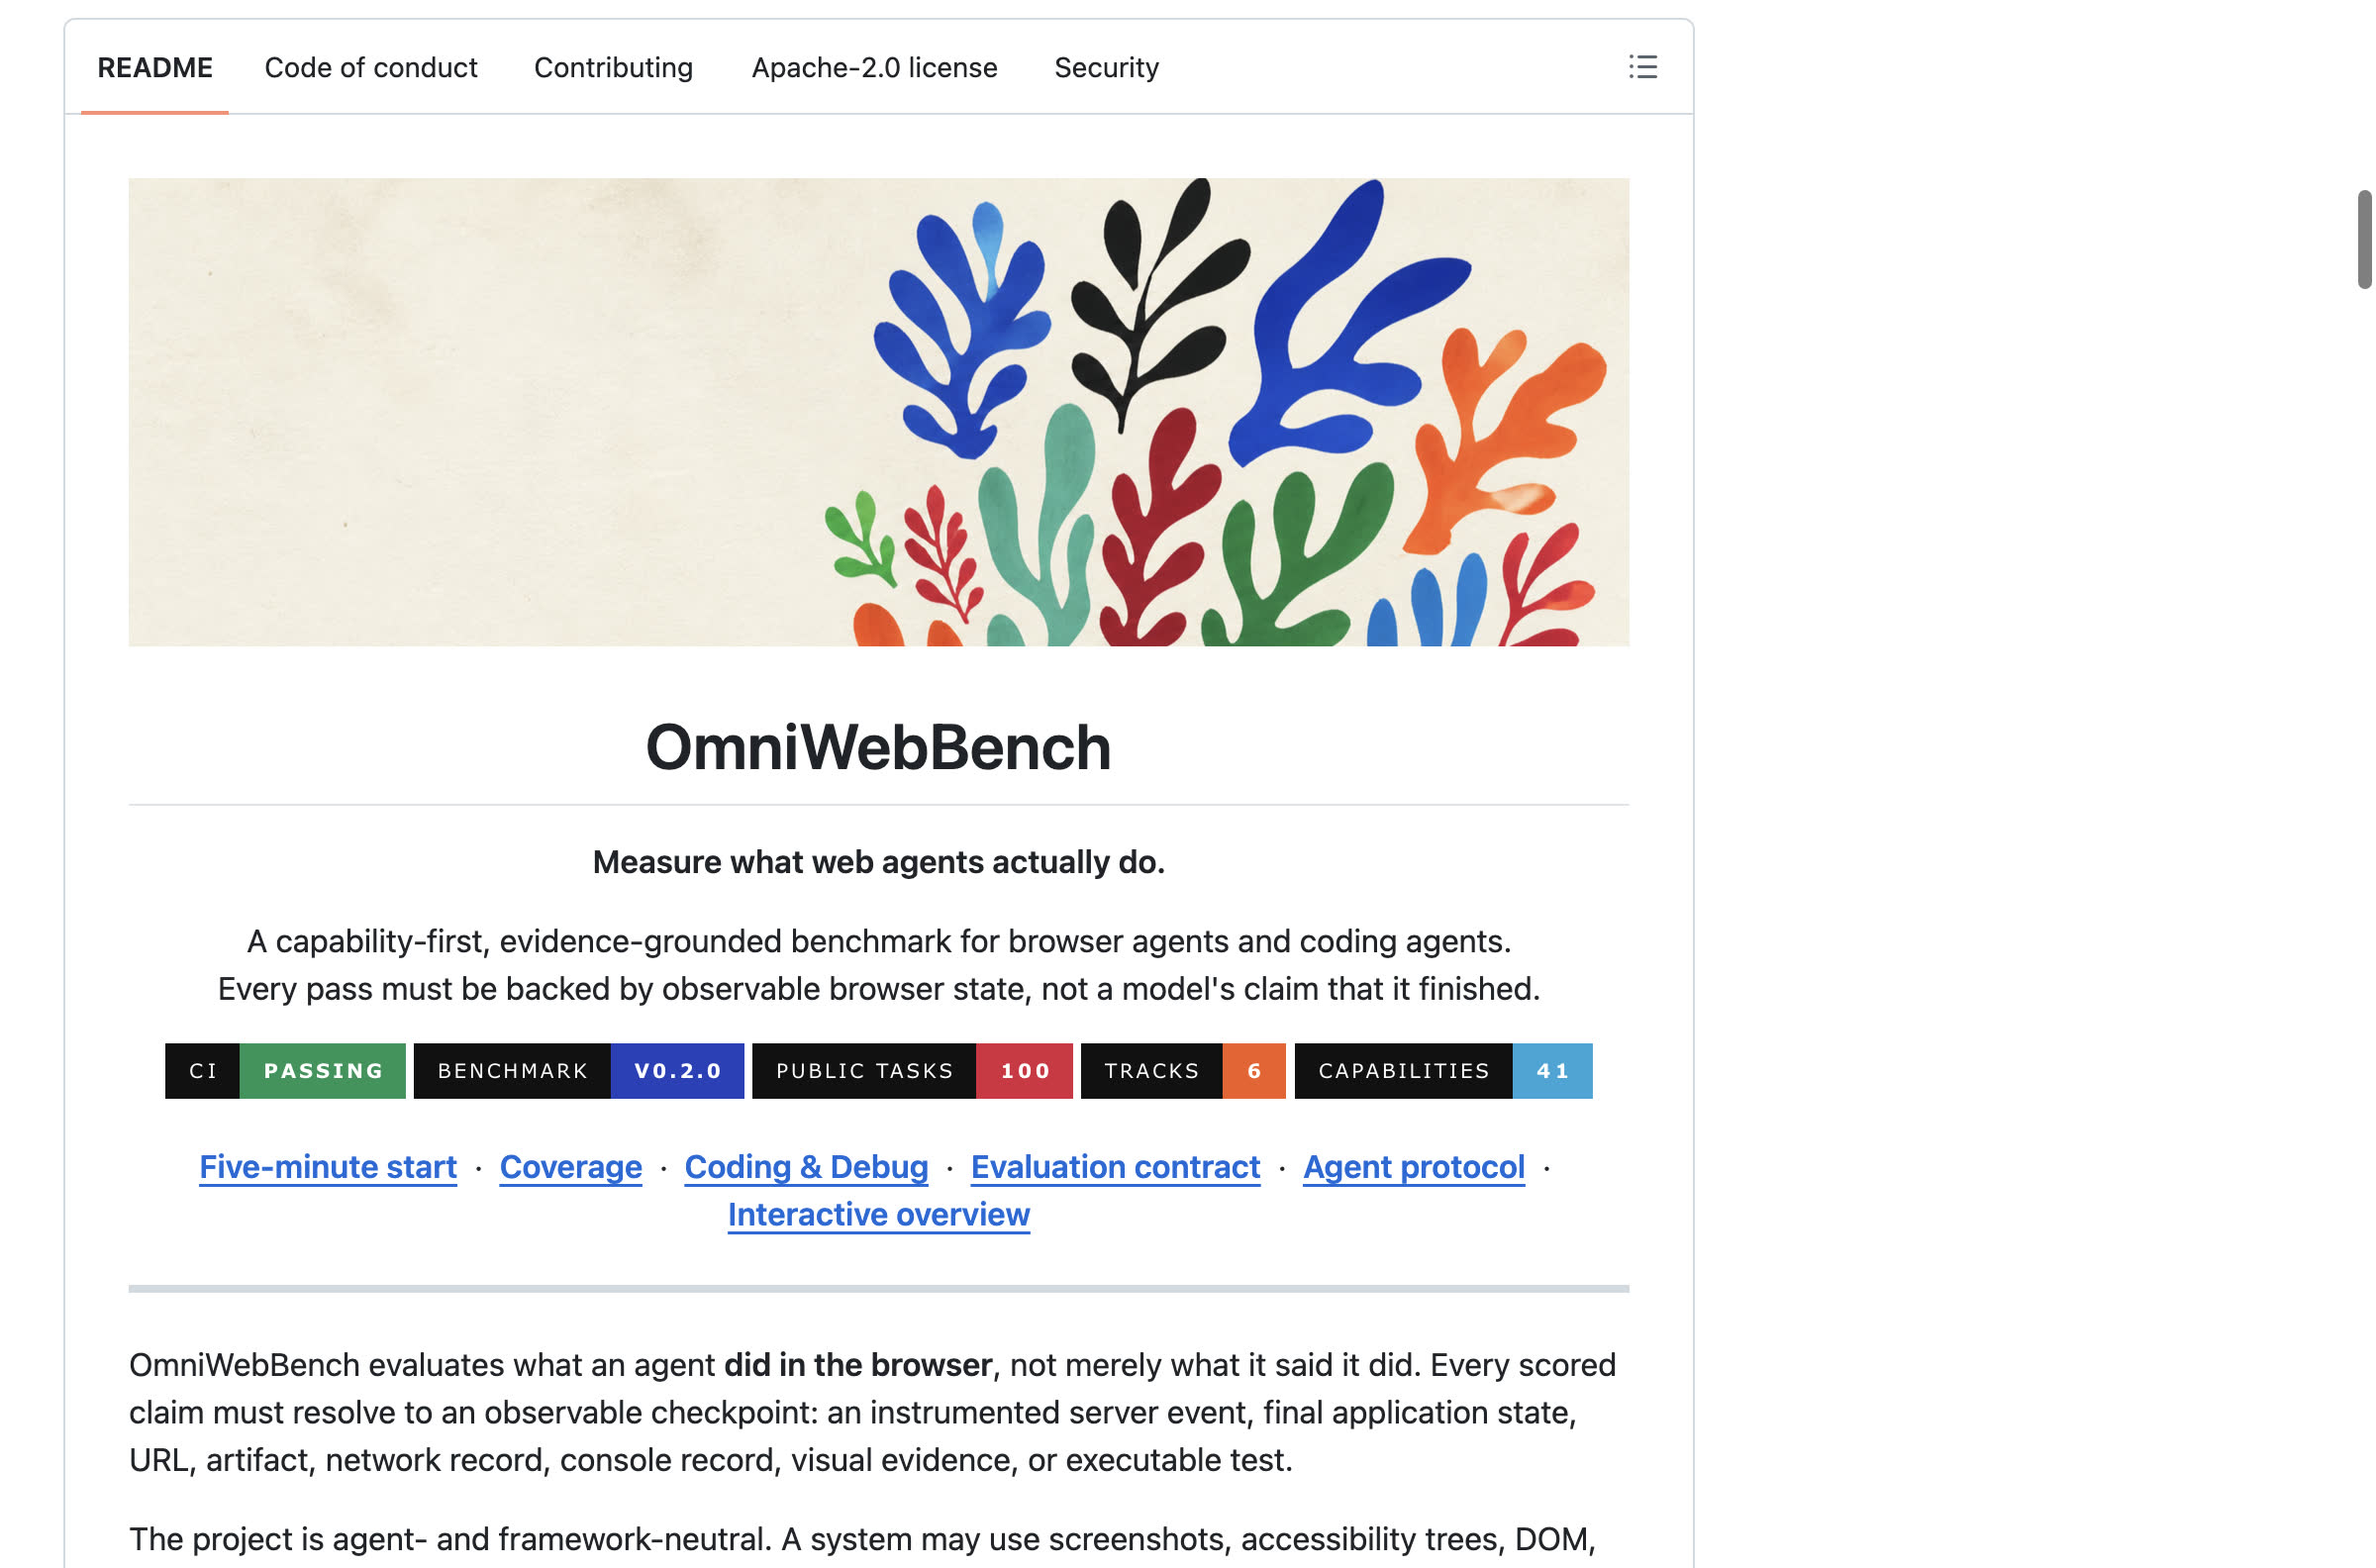
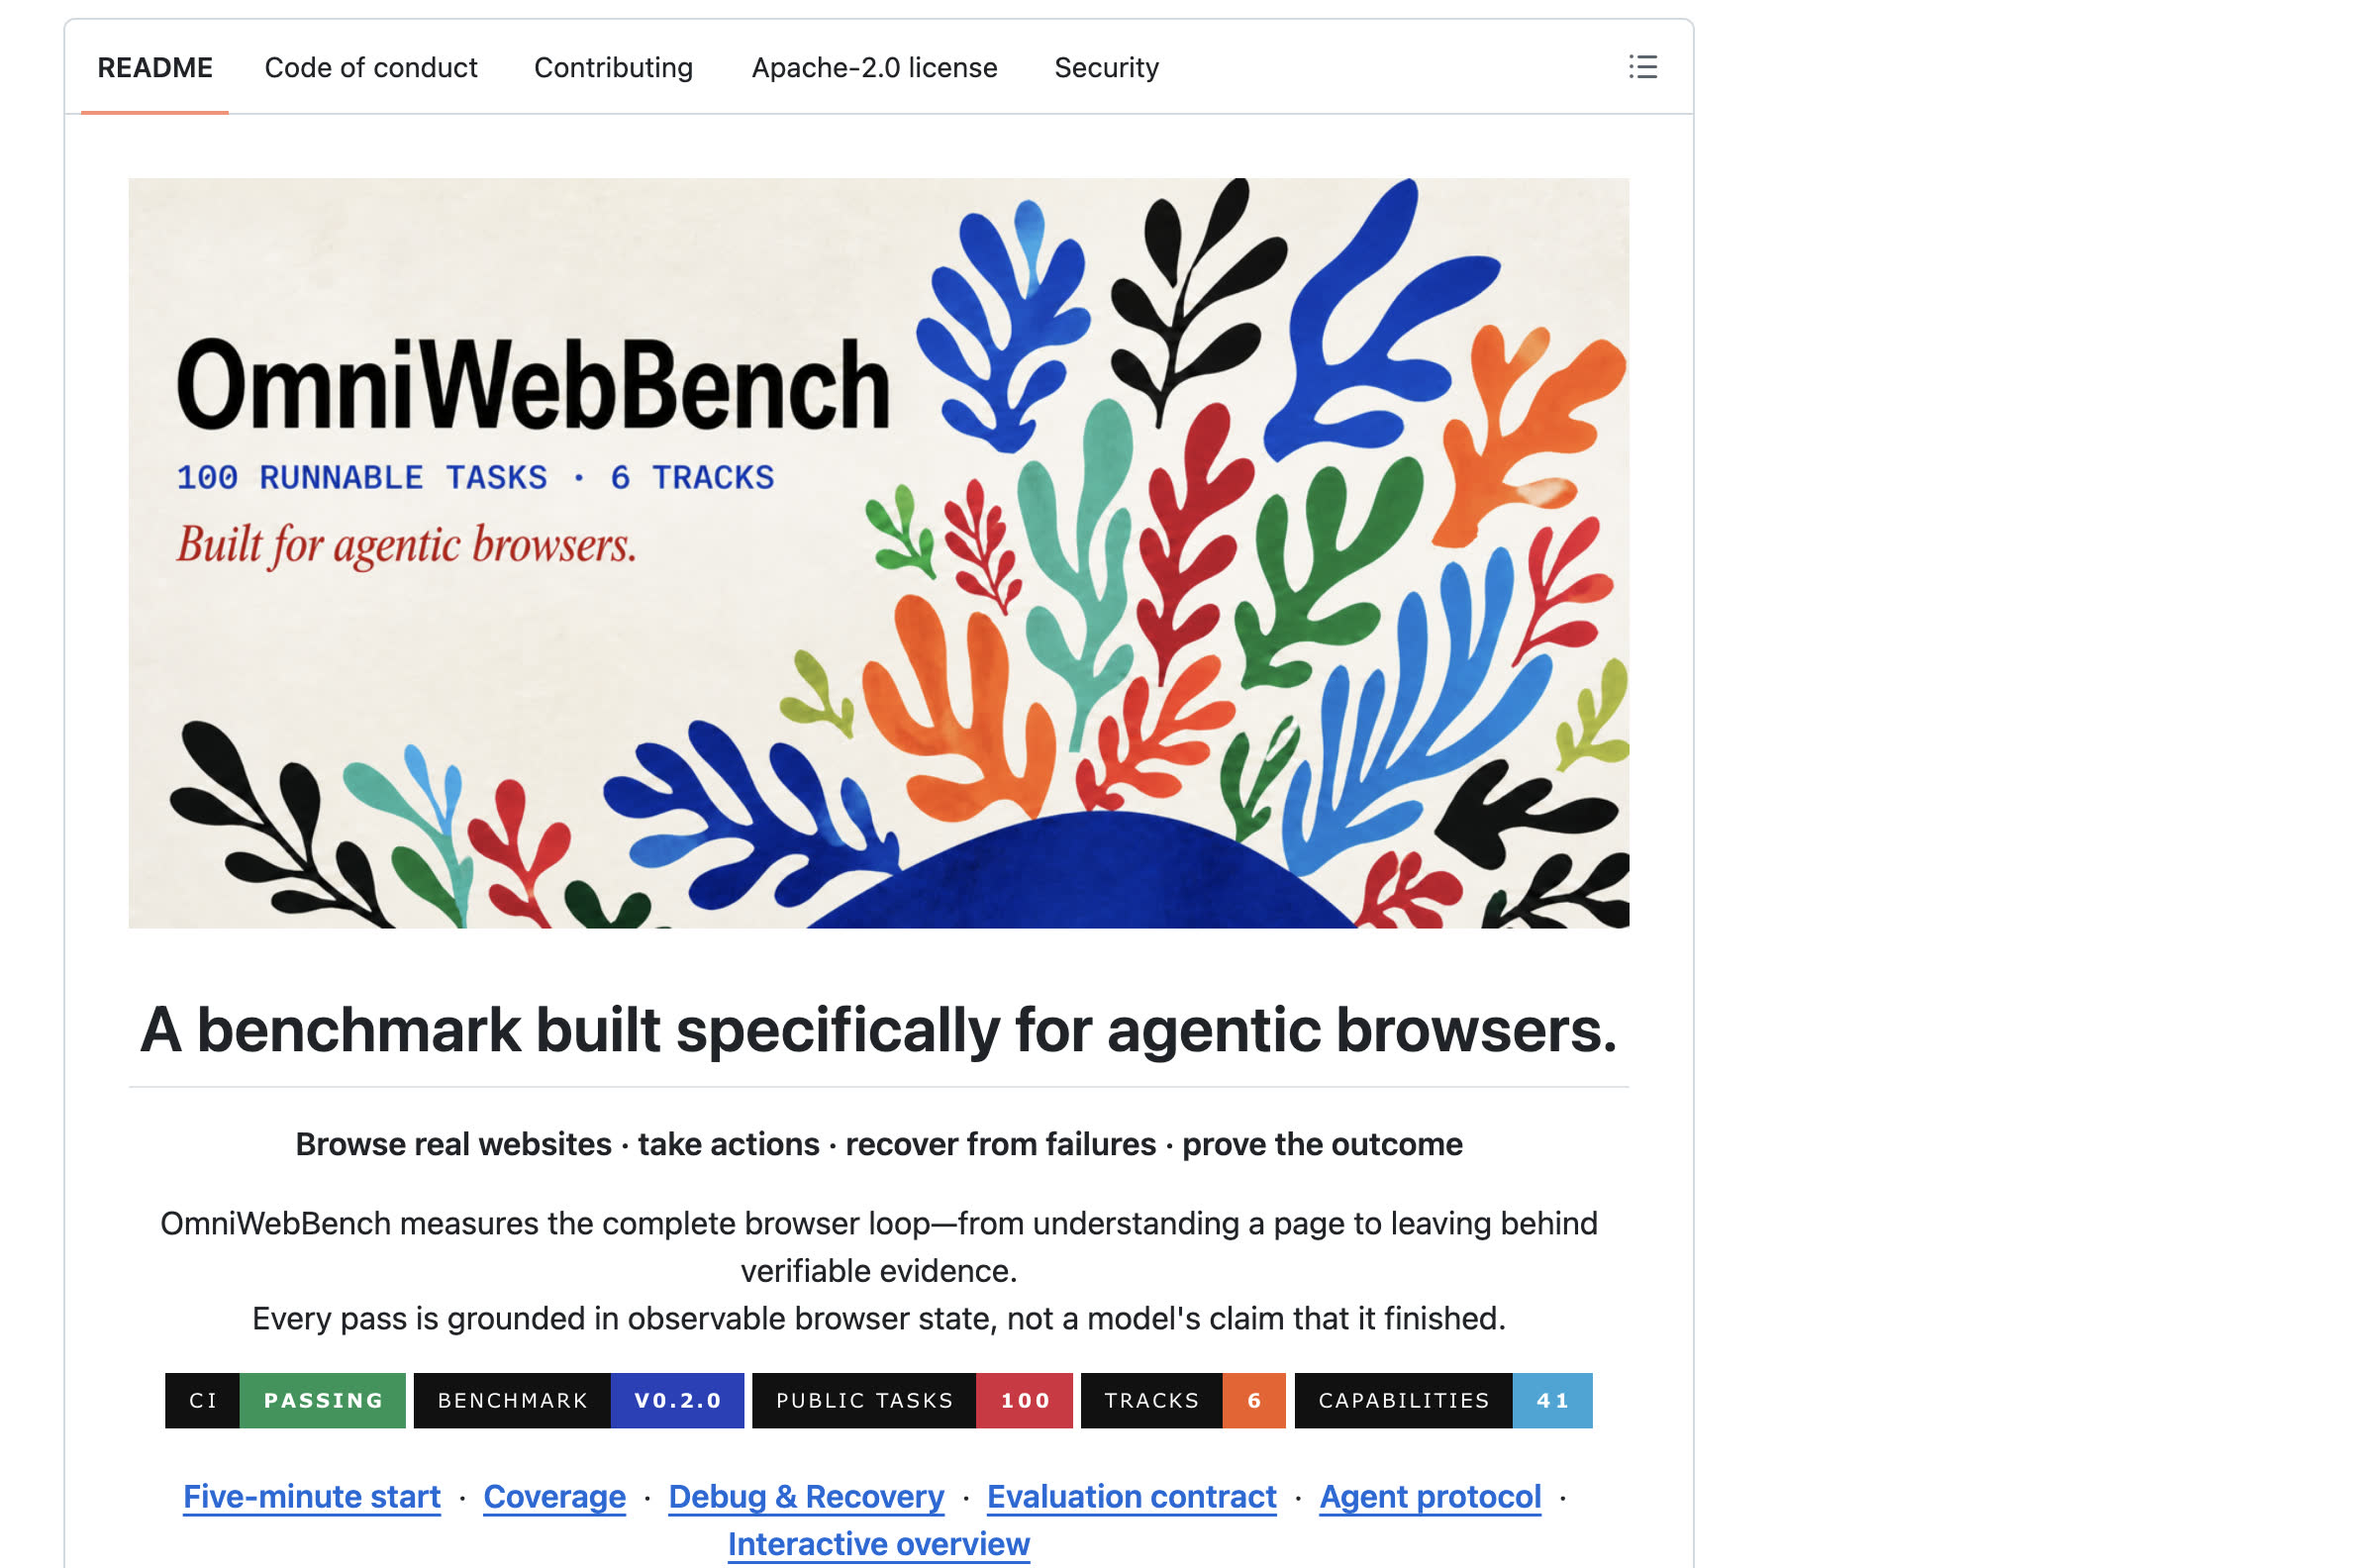
docs: record agentic-browser narrative verification

Changed region(s): [[0.0312, 0.0928, 0.6875, 1.0], [0.0625, 0.3403, 0.2812, 0.3712], [0.9688, 0.1237, 1.0, 0.1856]]

diff --git a/design-qa.md b/design-qa.md
@@ -11,10 +11,10 @@
 - Top-of-README screenshot: `docs/qa/readme-top.jpg`.
 - Browser Debug focused screenshot: `docs/qa/readme-debug.jpg`.
 - Live GitHub top screenshot: `docs/qa/readme-live-top.jpg`.
-- Live GitHub Debug screenshot: `docs/qa/readme-live-debug.jpg`.
 - CSS viewport and screenshot pixels: 1200 × 900, device scale factor 1.
 - State: GitHub-style light-theme README rendering, agentic-browser positioning state and Browser Debug section.
 - Browser recording: `/Users/xufan/.config/browser-harness/agent-workspace/recordings/omniwebbench-agentic-browser-final-local`.
+- Live browser recording: `/Users/xufan/.config/browser-harness/agent-workspace/recordings/omniwebbench-agentic-browser-live-final`.
 
 **Full-view comparison evidence**
 
@@ -50,6 +50,7 @@
 - Desktop document overflow: 0 px.
 - No page or asset-load errors were observed during the final browser recording.
 - Local narrative check: primary image natural width 1280 px, positioning heading present, comparison-name scan clean, Browser Debug section present, Five-minute start present, and document overflow 0 px.
+- Live GitHub check: commit `57cf570` rendered, primary image natural width 1280 px, positioning heading and Browser Debug section present, comparison-name scan clean, 6 native GitHub alerts rendered, and the repository About description identifies agentic browsers as the unit under test.
 
 **Comparison history**
 
